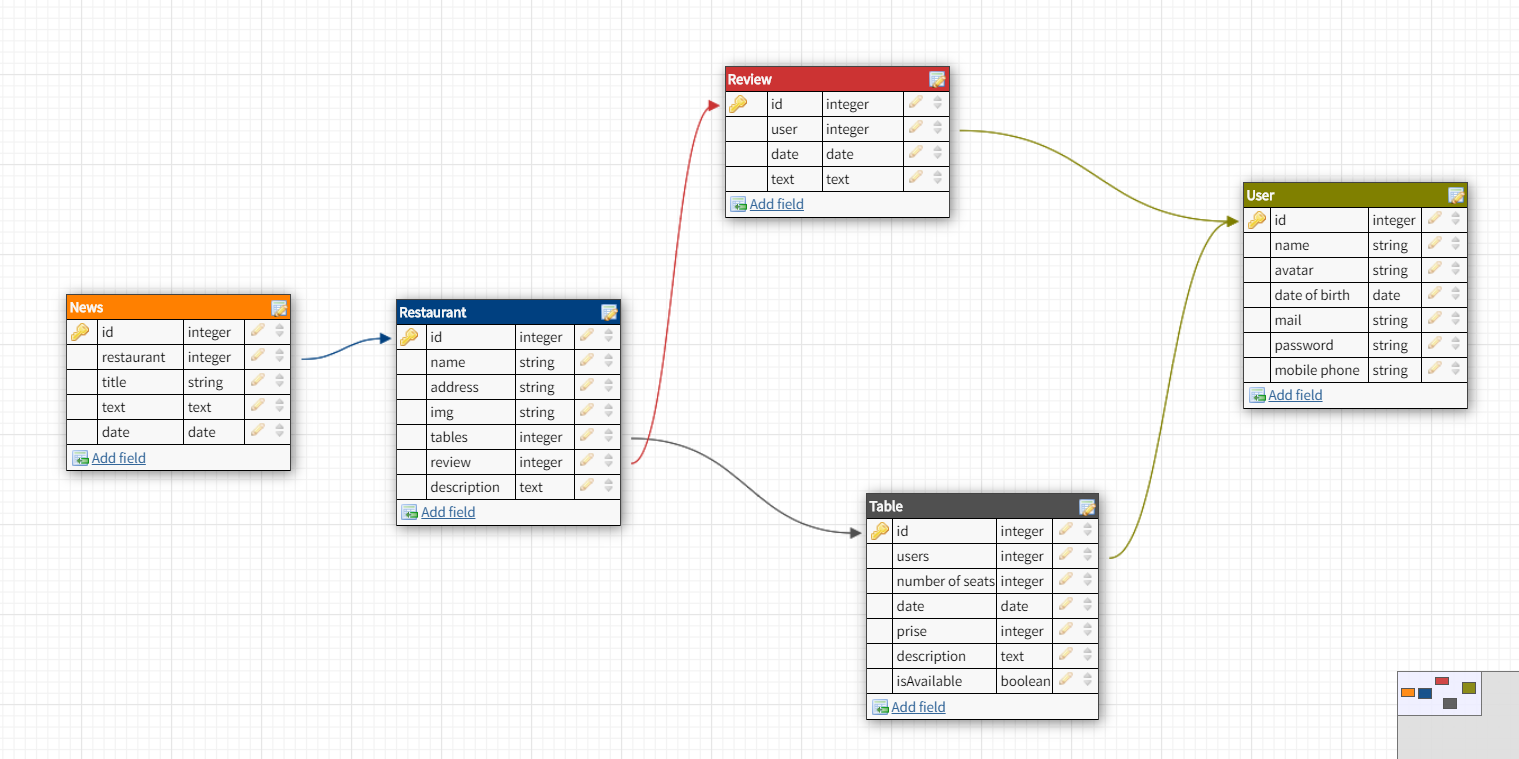
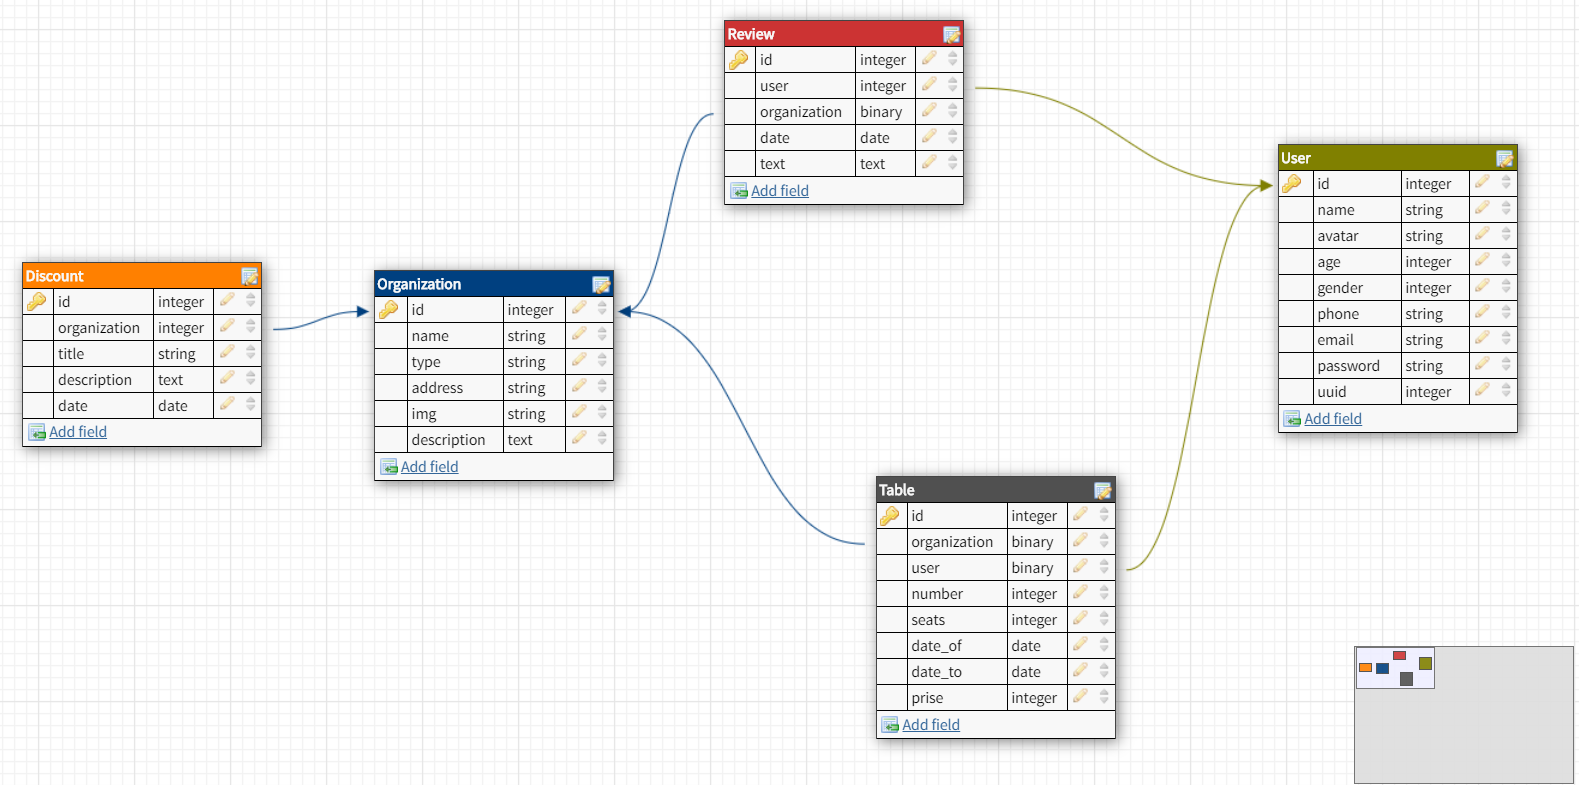
new db

diff --git a/src/main/java/ru/itis/eatbook/models/Table.java b/src/main/java/ru/itis/eatbook/models/Table.java
@@ -1,0 +1,20 @@
+package ru.itis.eatbook.models;
+
+import lombok.*;
+
+@Getter
+@Setter
+@AllArgsConstructor
+@NoArgsConstructor
+@EqualsAndHashCode
+@Builder
+public class Table {
+    private Long id;
+    private Organization organization;
+    private User user;
+    private Integer number;
+    private Integer seats;
+    private String dateOf;
+    private String dateTo;
+    private Integer prise;
+}

diff --git a/src/main/java/ru/itis/eatbook/models/Review.java b/src/main/java/ru/itis/eatbook/models/Review.java
@@ -1,0 +1,18 @@
+package ru.itis.eatbook.models;
+
+import com.sun.org.apache.xpath.internal.operations.Or;
+import lombok.*;
+
+@Getter
+@Setter
+@AllArgsConstructor
+@NoArgsConstructor
+@EqualsAndHashCode
+@Builder
+public class Review {
+    private Long id;
+    private User user;
+    private Organization organization;
+    private String date;
+    private String text;
+}

diff --git a/src/main/java/ru/itis/eatbook/models/Organization.java b/src/main/java/ru/itis/eatbook/models/Organization.java
@@ -1,0 +1,18 @@
+package ru.itis.eatbook.models;
+
+import lombok.*;
+
+@Getter
+@Setter
+@AllArgsConstructor
+@NoArgsConstructor
+@EqualsAndHashCode
+@Builder
+public class Organization {
+    private Long id;
+    private String name;
+    private String type;
+    private String address;
+    private String image;
+    private String info;
+}

diff --git a/src/main/java/ru/itis/eatbook/models/Discount.java b/src/main/java/ru/itis/eatbook/models/Discount.java
@@ -1,0 +1,16 @@
+package ru.itis.eatbook.models;
+
+import lombok.*;
+
+@Getter
+@Setter
+@AllArgsConstructor
+@NoArgsConstructor
+@EqualsAndHashCode
+@Builder
+public class Discount {
+    private Long id;
+    private Organization organization;
+    private String info;
+    private String date;
+}
